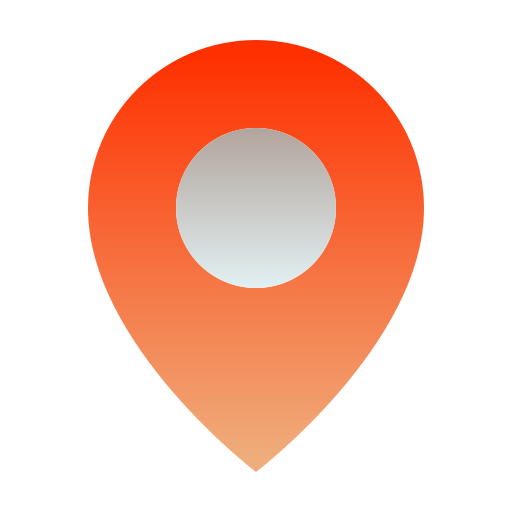
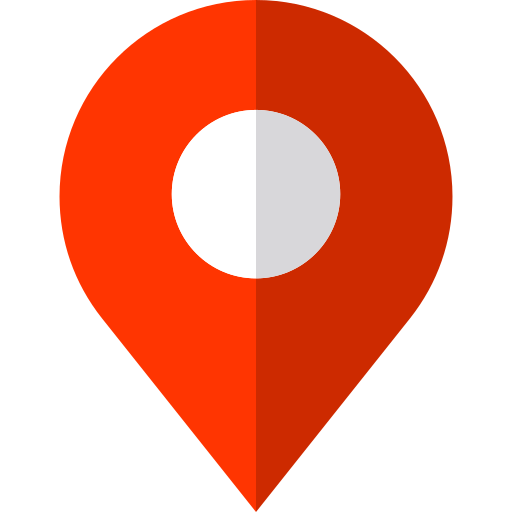
ultimas correcciones y mas
correcciones varias, nuevos iconos, mejores comentarios, mas marcas en el json, desarrollo del README

diff --git a/index.js b/index.js
@@ -1,10 +1,11 @@
-// Crea un mapa en el elemento con el ID "map-container"
+// Crea un mapa en el elemento con el ID "map-container", se inicializa con las coordenadas de las oficinas de Aeroterra
 var map = L.map("map-container").setView([-34.595866, -58.370659], 14);
 
 // Agrega un mosaico de OpenStreetMap como capa base del mapa
 L.tileLayer("https://{s}.tile.openstreetmap.org/{z}/{x}/{y}.png").addTo(map);
 
-let newIcon = L.icon({
+// Creacion de los diferentes iconos que se usan
+let icon = L.icon({
   iconUrl: "pin.png",
   iconSize: [41, 41],
   iconAnchor: [20, 40],
@@ -22,38 +23,50 @@ let temporalMark = L.marker([0, 0], {
   icon: tempIcon,
 });
 
-// inicializamos algunas marcas desde data.json
+// Loader de la searchbar, necesita estar inicializado dado que se vacia su elemento padre y es destruido
+const searchbarLoader = document.createElement("div");
+searchbarLoader.classList.add("loader");
+searchbarLoader.setAttribute("id", "loader-searchbar");
+
+// Inicializamos algunas marcas desde data.json
 fetch("data.json")
   .then((response) => response.json())
   .then((data) => {
     for (let i = 0; i < data.length; i++) {
       const ubi = data[i];
-
+      // contenido HTML para los popups de las marcas
       const htmlContent = `
-    <div>
-        <p><strong>Descripcion:</strong> ${ubi.name}</p>
-        <p><strong>Direccion:</strong> ${ubi.direction}</p>
-        <p><strong>Telefono:</strong> ${ubi.phone}</p>
-        <p><strong>(X, Y):</strong> ${ubi.long}, ${ubi.lat}</p>
-        <p><strong>Categoria:</strong> ${ubi.type}</p>
-        <button class='borrarMarcador' data-id="${ubi.id}">Borrar</button>
-    </div>`;
+	  <div style="display: flex; flex-direction: column">
+		<p><strong>Descripcion:</strong> ${ubi.name}</p>
+		<p><strong>Direccion:</strong> ${ubi.direction}</p>
+		<p><strong>Telefono:</strong> ${ubi.phone}</p>
+		<p><strong>(X, Y):</strong> ${ubi.long}, ${ubi.lat}</p>
+		<p><strong>Categoria:</strong> ${ubi.type}</p>
+		<button class='borrarMarcador' style="background-color: red; border: none; height: 2em; border-radius: 10px; cursor: pointer; color: white;">Borrar</button>
+	</div>`;
       const markerNuevo = L.marker([Number(ubi.lat), Number(ubi.long)], {
-        interactive: true,
-        riseOnHover: true,
-        icon: newIcon,
+        icon,
       });
       markerNuevo.bindPopup(htmlContent).addTo(map);
+      // cuando el popup abre agregamos el eventlistener a su boton de borrar, de otra forma no encontrariamos ese boton, dado que no se crea hasta que se abre el popup
+      markerNuevo.on("popupopen", function (event) {
+        document
+          .querySelector(".borrarMarcador")
+          .addEventListener("click", () => {
+            map.removeLayer(event.target);
+          });
+      });
     }
   })
   .catch((error) => {
-    console.error("Error:", error);
+    console.error("Error al precargar marcas del archivo .json:", error);
   });
 
+// Evento click en el mapa, ubica la marca temporal y rellena inputs de direccion y coordenadas
 map.on("click", function (e) {
   map.removeLayer(temporalMark);
   document.querySelector("#searchbar-results").innerHTML = "";
-  // recuperar lat y lng del click
+  // Recuperar lat y lng del click
   let lat = e.latlng.lat;
   let lng = e.latlng.lng;
   temporalMark = L.marker([Number(lat), Number(lng)], {
@@ -62,7 +75,7 @@ map.on("click", function (e) {
     icon: tempIcon,
   }).addTo(map);
 
-  // llamada a la api para obtener direccion
+  // Llamada a la api (OpenStreetMap) para obtener direccion y rellenar info
   document.querySelector("#direction-autocomplete").innerHTML = "";
   document.querySelector("#loader-direccion").style.display = "flex";
   fetch(
@@ -82,42 +95,55 @@ map.on("click", function (e) {
       }
       document.querySelector("#long").value = lng;
       document.querySelector("#lat").value = lat;
+    })
+    .catch((error) => {
+      document.querySelector("#loader-direccion").style.display = "none";
+      document.querySelector("#direction-autocomplete").innerHTML =
+        "Ubicacion no encontrada";
+      console.log("Error al buscar direccion: ", error);
     });
 });
 
+// Submit del form principal, de estar todos los valores correctos, crea la marca. Mismo procedimiento que al precargar datos
 document.querySelector("form").addEventListener("submit", (event) => {
   event.preventDefault();
-  let name = document.querySelector("#name").value;
+  const data = new FormData(event.target);
+  const allData = Object.fromEntries(data.entries());
+  const { name, phone, type, long, lat } = allData;
   let direction = document.querySelector("#direction-autocomplete").innerHTML;
-  let phone = document.querySelector("#phone").value;
-  let type = document.querySelector("#type").value;
-  let long = document.querySelector("#long").value;
-  let lat = document.querySelector("#lat").value;
+
   if (validate(name, phone, long, lat)) {
     const htmlContent = `
-    <div>
-        <p><strong>Descripcion:</strong> ${name}</p>
-        <p><strong>Direccion:</strong> ${direction}</p>
-        <p><strong>Telefono:</strong> ${phone}</p>
-        <p><strong>(X, Y):</strong> ${long}, ${lat}</p>
-        <p><strong>Categoria:</strong> ${type}</p>
-    </div>`;
-    L.marker([Number(lat), Number(long)], { interactive: true, icon: newIcon })
+	<div style="display: flex; flex-direction: column">
+		<p><strong>Descripcion:</strong> ${name}</p>
+		<p><strong>Direccion:</strong> ${direction}</p>
+		<p><strong>Telefono:</strong> ${phone}</p>
+		<p><strong>(X, Y):</strong> ${long}, ${lat}</p>
+		<p><strong>Categoria:</strong> ${type}</p>
+		<button class='borrarMarcador' style="background-color: red; border: none; height: 2em; border-radius: 10px; cursor: pointer; color: white;">Borrar</button>
+	</div>`;
+    let markerNuevo = L.marker([Number(lat), Number(long)], {
+      icon,
+    })
       .addTo(map)
       .bindPopup(htmlContent);
     map.removeLayer(temporalMark);
     document.querySelector("#name").value = "";
     document.querySelector("#direction-autocomplete").innerHTML = "";
     document.querySelector("#phone").value = "";
-    long = document.querySelector("#long").value = "";
-    lat = document.querySelector("#lat").value = "";
+    document.querySelector("#long").value = "";
+    document.querySelector("#lat").value = "";
+    markerNuevo.on("popupopen", function (e) {
+      document
+        .querySelector(".borrarMarcador")
+        .addEventListener("click", () => {
+          map.removeLayer(e.target);
+        });
+    });
   }
 });
 
-const searchbarLoader = document.createElement("div");
-searchbarLoader.classList.add("loader");
-searchbarLoader.setAttribute("id", "loader-searchbar");
-
+// Evento de click del boton de busqueda por texto (searchbar), solo salvamos los primeros 5 resultados
 document.querySelector("#button-searchbar").addEventListener("click", () => {
   let busqueda = document.querySelector("#searchbar").value;
   if (busqueda) {
@@ -125,6 +151,7 @@ document.querySelector("#button-searchbar").addEventListener("click", () => {
     document.querySelector("#searchbar-results").appendChild(searchbarLoader);
     document.querySelector("#loader-searchbar").style.display = "flex";
     busqueda = busqueda.replace(" ", "%20");
+    // Llamada a la api (OpenStreetMap) para obtener resultados
     fetch(
       "https://nominatim.openstreetmap.org/search?q=" +
         busqueda +
@@ -173,15 +200,24 @@ document.querySelector("#button-searchbar").addEventListener("click", () => {
           document.querySelector("#searchbar-results").innerHTML = "";
           const mensaje = document.createElement("p");
           mensaje.textContent = "No se encontraron resultados";
-
           document.querySelector("#searchbar-results").appendChild(mensaje);
         }
+      })
+      .catch((error) => {
+        console.log("Error al buscar: ", busqueda, ". Error: ", error);
+        document.querySelector("#loader-searchbar").style.display = "none";
+        document.querySelector("#searchbar-results").innerHTML = "";
+        const mensaje = document.createElement("p");
+        mensaje.textContent = "Error al buscar: " + busqueda;
+        document.querySelector("#searchbar-results").appendChild(mensaje);
       });
   }
 });
 
+// Funcion validadora de los inputs, chequea datos requeridos
 const validate = (name, phone, long, lat) => {
   const phoneRegex = /[a-zA-Z]/; // Chequea si contiene letras
+  const coordRegex = /^[0-9.\-]+$/; // Chequea si contiene algo que no sea numero, punto o guion medio
 
   let valides = true;
 
@@ -202,7 +238,6 @@ const validate = (name, phone, long, lat) => {
   }
 
   if (phone.length < 5 || phoneRegex.test(phone)) {
-    console.log("phone");
     if (phone.length == 0) {
       let alerta = document.querySelector("#alerta-phone");
       alerta.style.opacity = "1";
@@ -218,8 +253,12 @@ const validate = (name, phone, long, lat) => {
     alerta.style.opacity = "0";
   }
 
-  if (Number(long) < -180 || Number(long) > 180 || long == "") {
-    console.log(long.length);
+  if (
+    Number(long) < -180 ||
+    Number(long) > 180 ||
+    long == "" ||
+    !coordRegex.test(long)
+  ) {
     if (long.length == 0) {
       let alerta = document.querySelector("#alerta-long");
       alerta.style.opacity = "1";
@@ -235,7 +274,12 @@ const validate = (name, phone, long, lat) => {
     alerta.style.opacity = "0";
   }
 
-  if (Number(lat) < -90 || Number(lat) > 90 || lat == "") {
+  if (
+    Number(lat) < -90 ||
+    Number(lat) > 90 ||
+    lat == "" ||
+    !coordRegex.test(lat)
+  ) {
     if (lat.length == 0) {
       let alerta = document.querySelector("#alerta-lat");
       alerta.style.opacity = "1";

diff --git a/index.html b/index.html
@@ -24,7 +24,7 @@
         <div class="label-containers">
           <label for="name">
             Nombre:
-            <input id="name" type="text" class="form-inputs" />
+            <input id="name" type="text" class="form-inputs" name="name"/>
           </label>
           <p class="alertaInputs" id="alerta-name">alerta</p>
         </div>
@@ -38,7 +38,7 @@
         <div class="label-containers">
           <label for="phone">
             Telefono:
-            <input id="phone" type="text" class="form-inputs" />
+            <input id="phone" type="text" class="form-inputs" name="phone" />
           </label>
           <p class="alertaInputs" id="alerta-phone">alerta</p>
         </div>
@@ -46,7 +46,7 @@
         <div class="label-containers">
           <label for="type">
             Categoria:
-            <select id="type" class="form-inputs">
+            <select id="type" class="form-inputs" name="type">
               <option value="Comercial">Comercial</option>
               <option value="Residencial">Residencial</option>
               <option value="Mixta">Mixta</option>
@@ -55,12 +55,12 @@
           <p class="alertaInputs" id="alerta-type">alerta</p>
         </div>
 
-        <p>Coordenadas:</p>
+        <p>Coordenadas</p>
 
         <div class="label-containers">
           <label for="long">
             Longitud:
-            <input id="long" type="text" class="form-inputs" />
+            <input id="long" type="text" class="form-inputs" name="long" />
           </label>
           <p class="alertaInputs" id="alerta-long">alerta</p>
         </div>
@@ -68,7 +68,7 @@
         <div class="label-containers">
           <label for="lat">
             Latitud:
-            <input id="lat" type="text" class="form-inputs" />
+            <input id="lat" type="text" class="form-inputs" name="lat" />
           </label>
           <p class="alertaInputs" id="alerta-lat">alerta</p>
         </div>
@@ -77,15 +77,9 @@
       </form>
     </div>
     <div id="searchbar-container">
-      <input type="text" id="searchbar" />
+      <input type="text" id="searchbar" placeholder="Buscar..." />
       <button id="button-searchbar">🔎</button>
-      <div id="searchbar-results"></div>
-    </div>
-    <div id="popup-container">
-      <div id="popup-ventana">
-        <p>Esta seguro de borrar el marcador?</p>
-        <div id="botones-confirmacion"><button>Si</button><button>Cancelar</button></div>
-      </div>
+      <div id="searchbar-results"><div id="loader-searchbar" class="loader"></div></div>
     </div>
     <div id="map-container"></div>
     <script

diff --git a/styles.css b/styles.css
@@ -96,6 +96,12 @@ form label {
   text-align: center;
 }
 
+input[type="number"]::-webkit-inner-spin-button,
+input[type="number"]::-webkit-outer-spin-button {
+  -webkit-appearance: none;
+  margin: 0;
+}
+
 #submit{
     height: 3em;
     width: 25%;
@@ -252,6 +258,7 @@ form label {
 #botones-confirmacion button {
   height: 100%;
   width: 20%;
+  cursor: pointer;
 }
 
 /* Estilos para el marcador cuando el popup está abierto */

diff --git a/README.md b/README.md
@@ -1,2 +1,20 @@
 # Aeroterra Test
- Technical Test
+ 
+ Test tecnico de Aeroterra.
+ Confeccion de una simple aplicacion GPS, para crear marcas, borrarlas, buscar ubicaciones o ubicarlas manualmente en el mapa.
+
+### Puntos completados:
+
+1. Creacion de marcas mediante formulario ✔
+2. Utilizacion de un mapa (Leaflet) ✔
+3. Popup informativo de las marcas ✔
+
+#### Puntos extra: 
+
+- Ubicacion de las marcas seleccionable manualmente o por busqueda de texto ✔
+- Precarga de algunas marcas mediante archivo JSON ✔
+- Funcionalidad de borrado de las marcas ✔
+
+##### Indicaciones para usar la aplicacion:
+
+Para correr la prueba tecnica, te recomiendo que utilices Live Server de Visual Studio. Es muy sencillo descargarla, se encuentra entre las extensiones disponibles de Visual Studio
